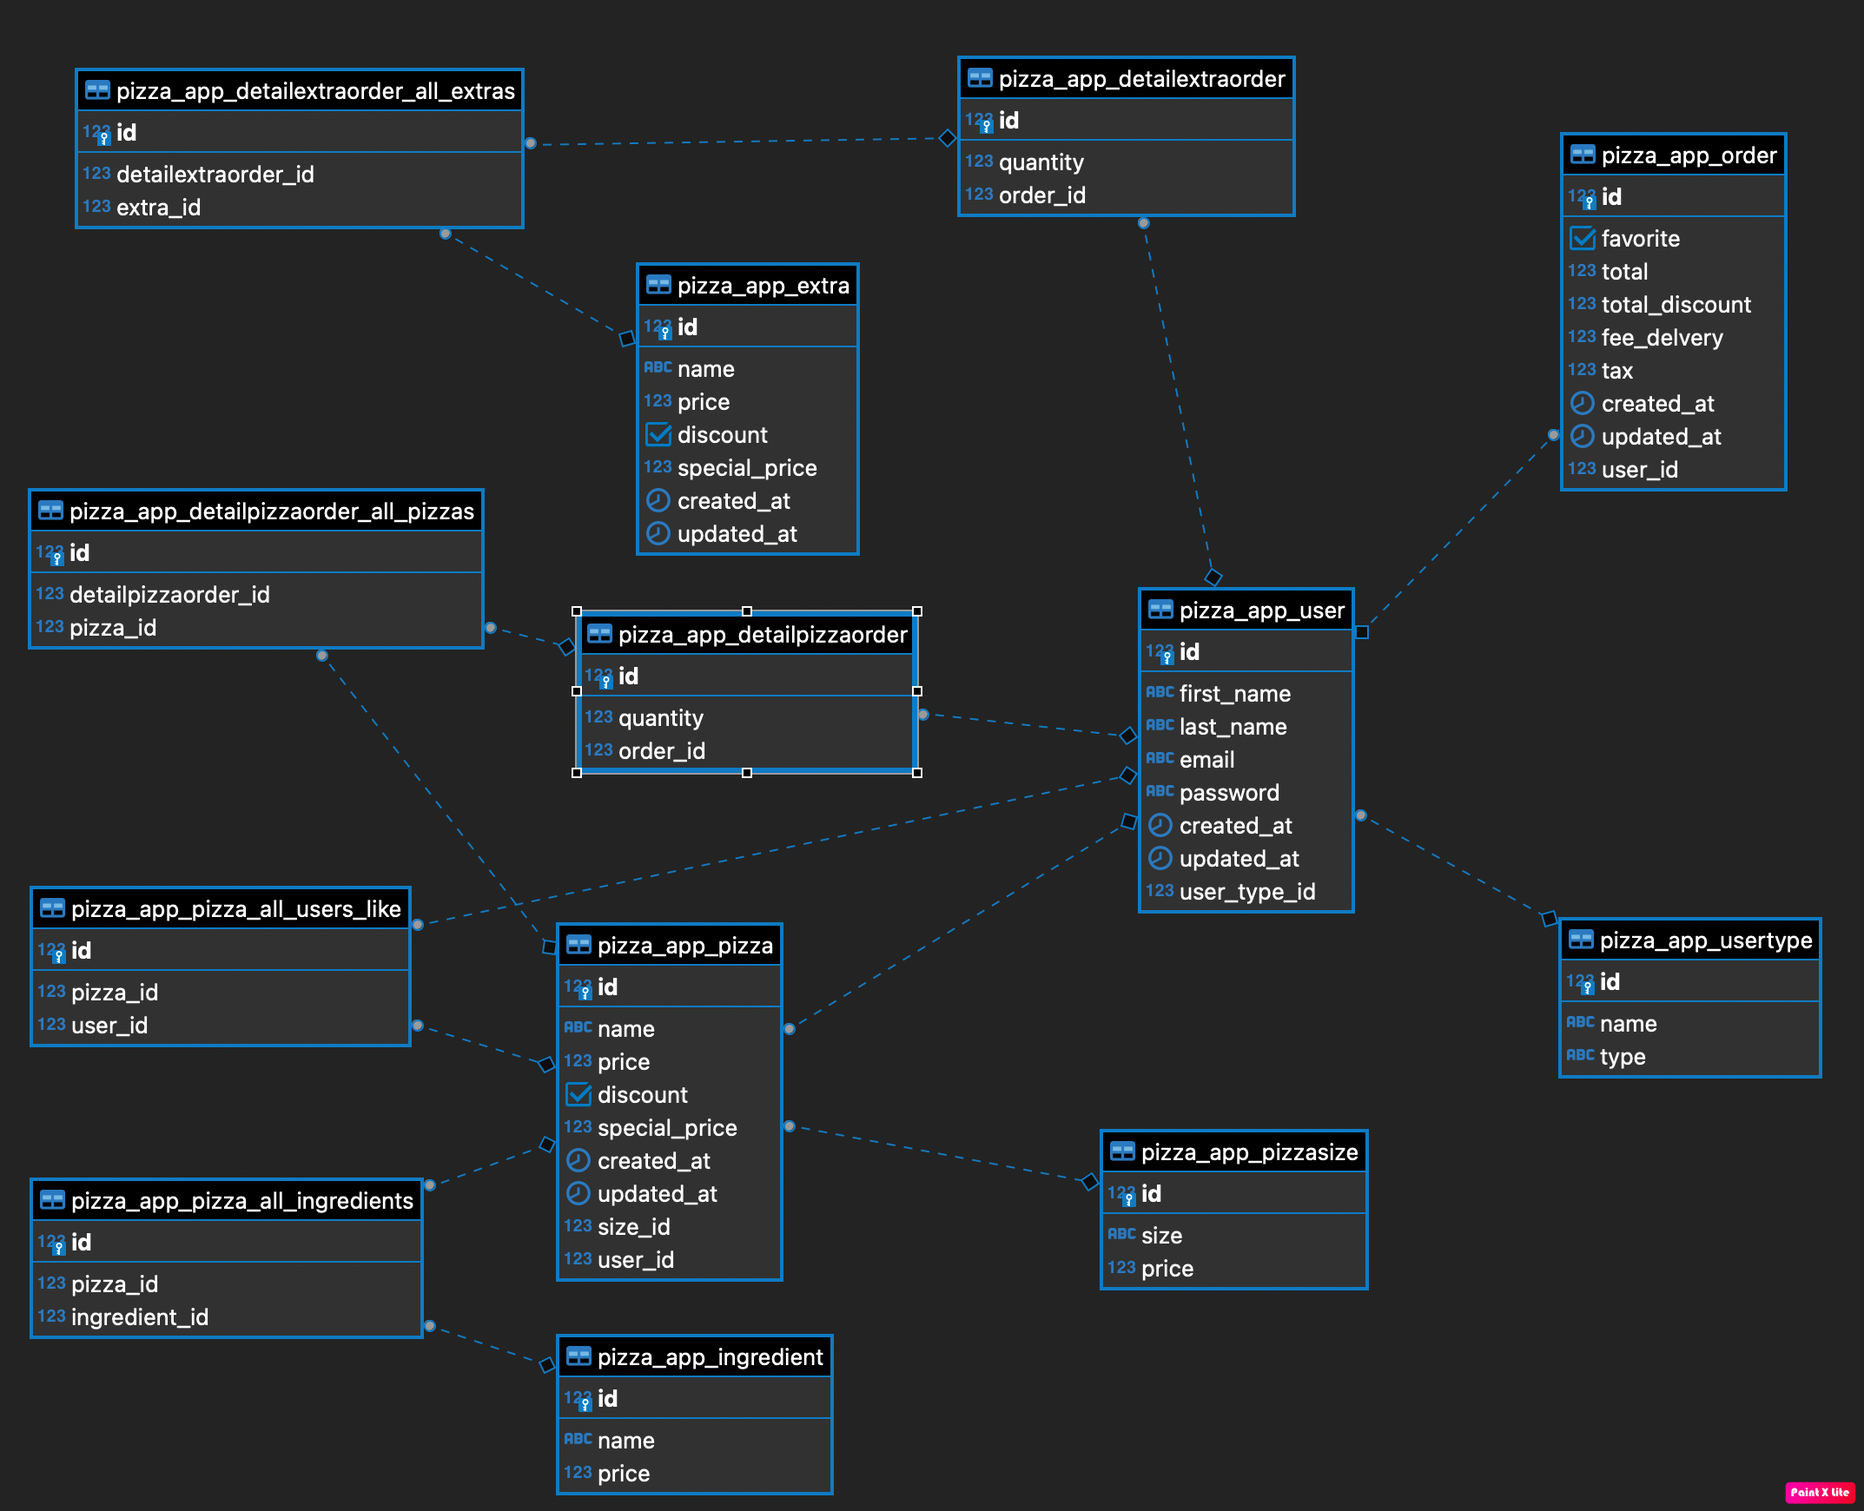
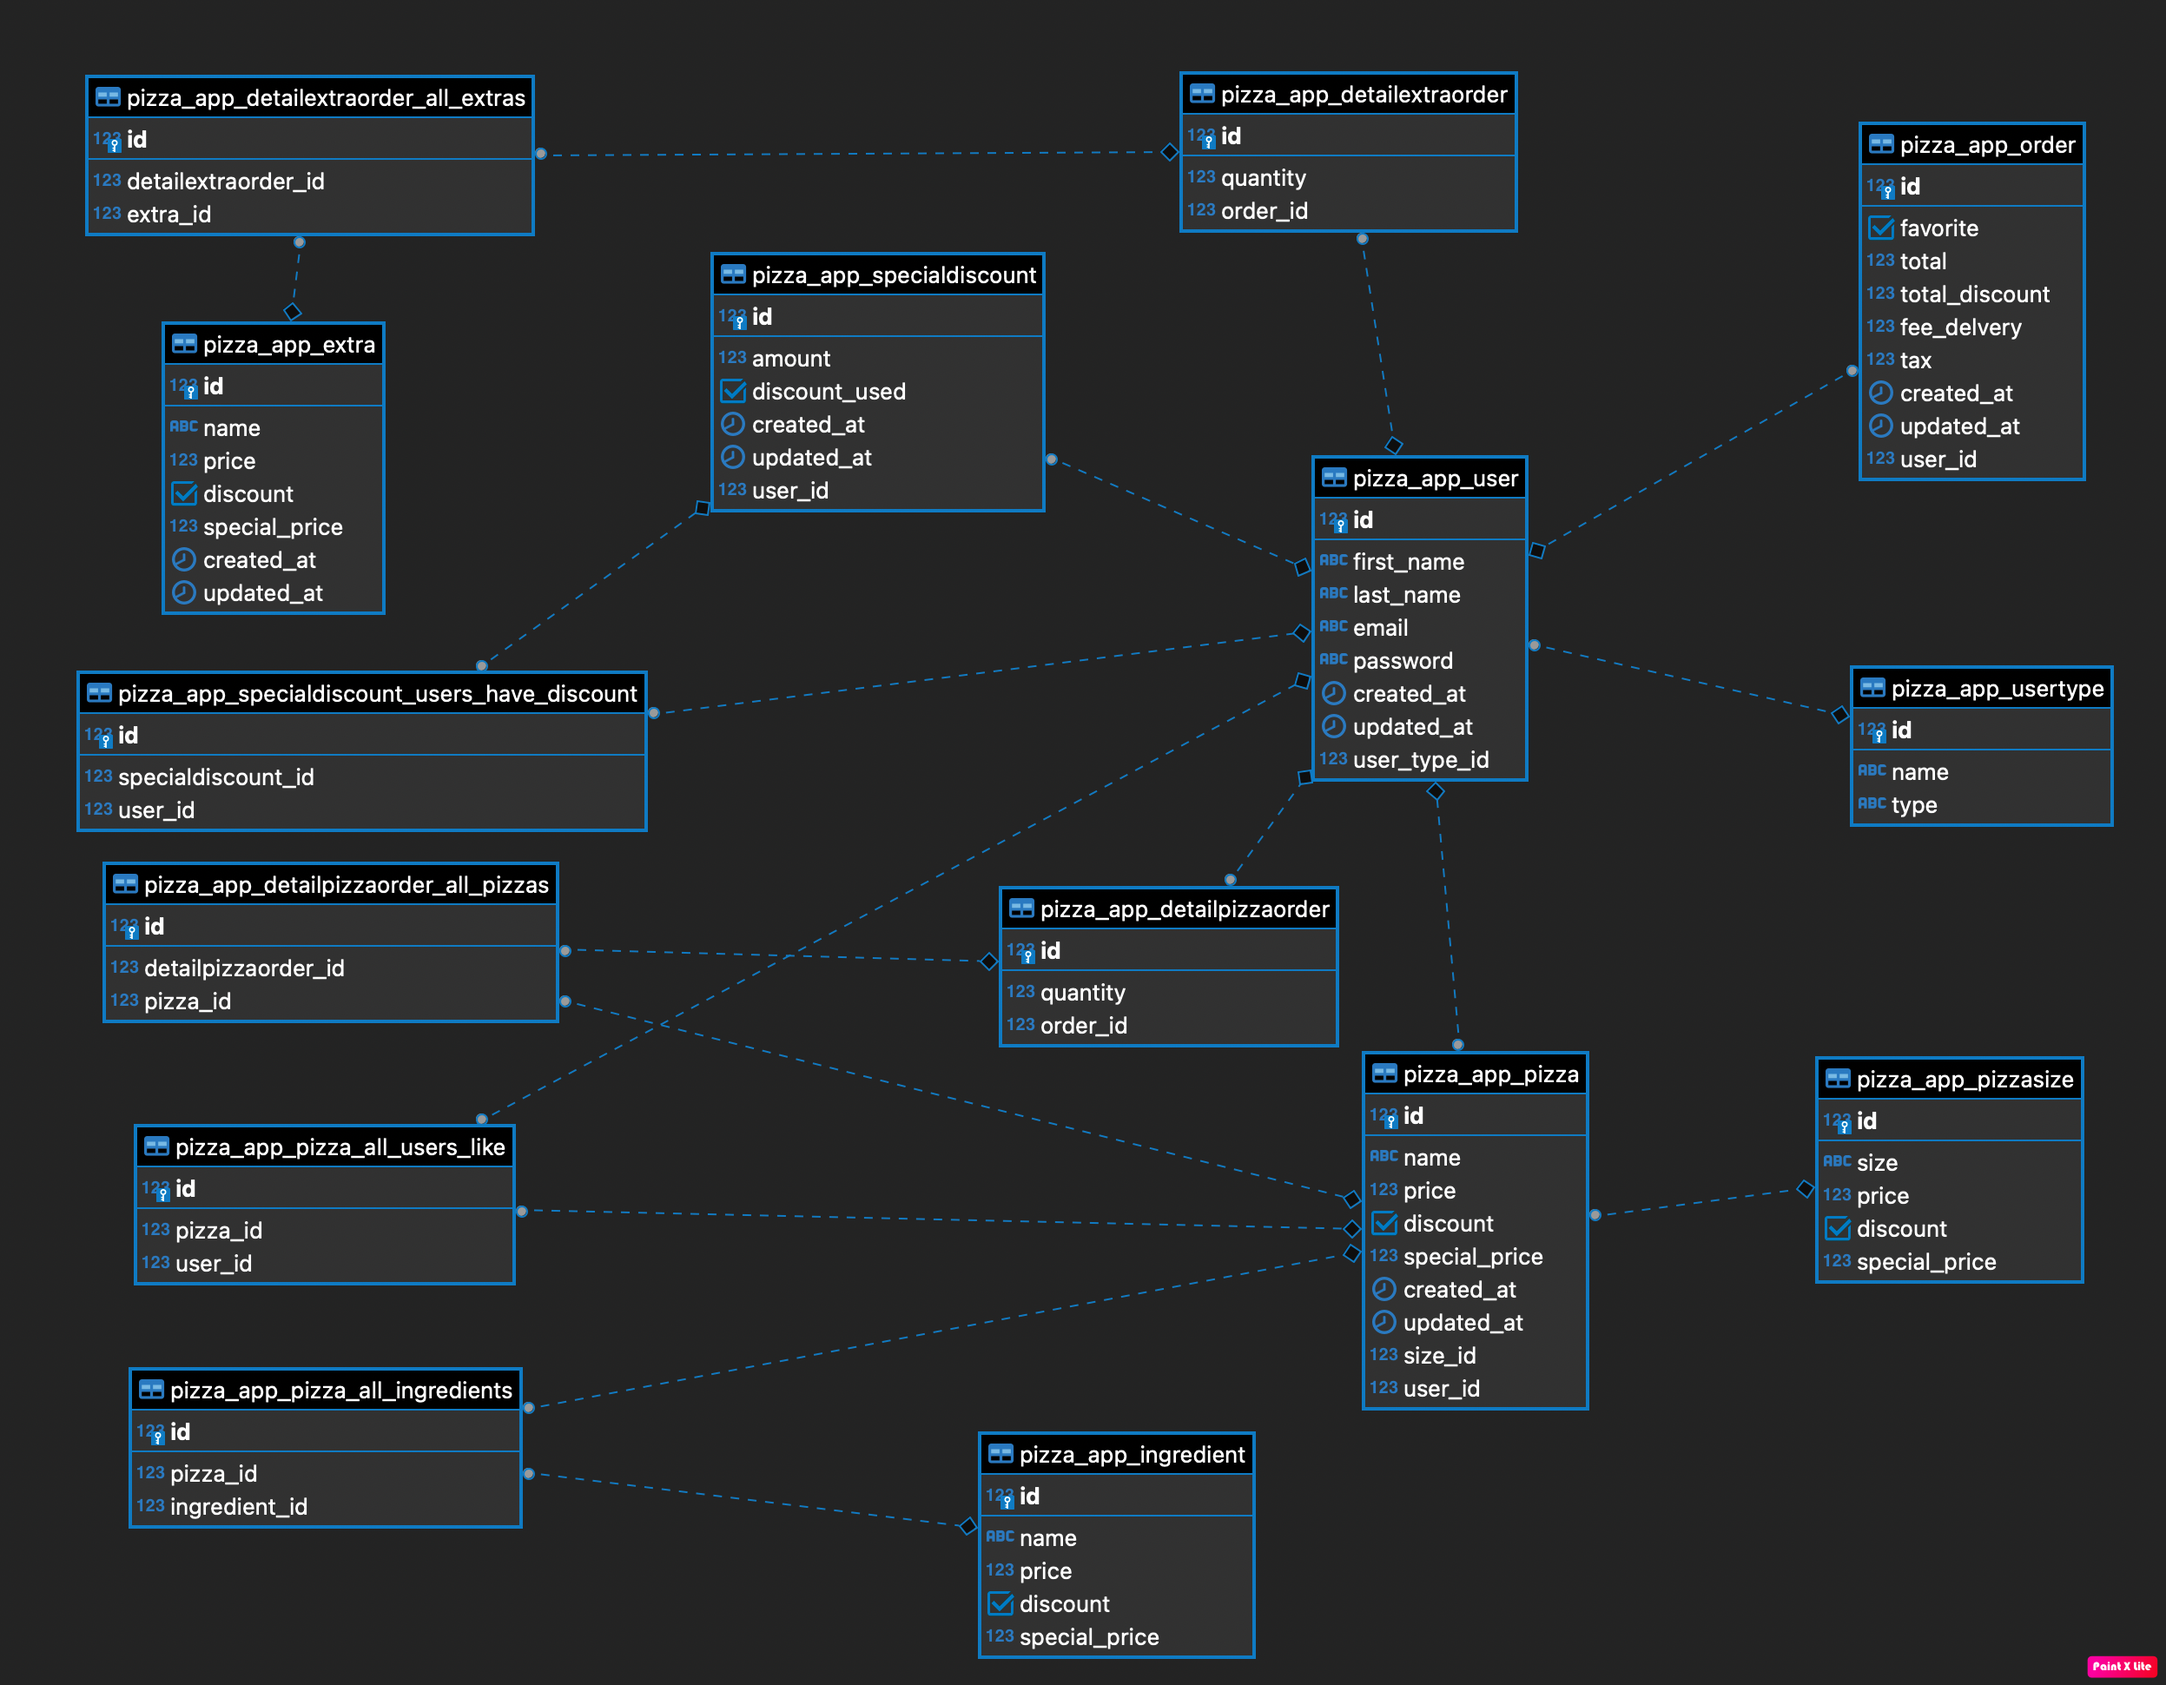
actualizaciones del modelo

diff --git a/pizza_app/migrations/0004_auto_20210610_0105.py b/pizza_app/migrations/0004_auto_20210610_0105.py
@@ -1,0 +1,48 @@
+# Generated by Django 3.2.3 on 2021-06-10 01:05
+
+from django.db import migrations, models
+import django.db.models.deletion
+
+
+class Migration(migrations.Migration):
+
+    dependencies = [
+        ('pizza_app', '0003_alter_detailextraorder_all_extras'),
+    ]
+
+    operations = [
+        migrations.AddField(
+            model_name='ingredient',
+            name='discount',
+            field=models.BooleanField(default=False),
+        ),
+        migrations.AddField(
+            model_name='ingredient',
+            name='special_price',
+            field=models.IntegerField(default=0),
+            preserve_default=False,
+        ),
+        migrations.AddField(
+            model_name='pizzasize',
+            name='discount',
+            field=models.BooleanField(default=False),
+        ),
+        migrations.AddField(
+            model_name='pizzasize',
+            name='special_price',
+            field=models.IntegerField(default=0),
+            preserve_default=False,
+        ),
+        migrations.CreateModel(
+            name='SpecialDiscount',
+            fields=[
+                ('id', models.BigAutoField(auto_created=True, primary_key=True, serialize=False, verbose_name='ID')),
+                ('amount', models.IntegerField()),
+                ('discount_used', models.BooleanField(default=False)),
+                ('created_at', models.DateTimeField(auto_now_add=True)),
+                ('updated_at', models.DateTimeField(auto_now=True)),
+                ('user', models.ForeignKey(on_delete=django.db.models.deletion.CASCADE, related_name='discounts_created', to='pizza_app.user')),
+                ('users_have_discount', models.ManyToManyField(related_name='my_discounts', to='pizza_app.User')),
+            ],
+        ),
+    ]

diff --git a/pizza_app/models.py b/pizza_app/models.py
@@ -82,10 +82,14 @@ class User(models.Model):
 class Ingredient(models.Model):
     name            = models.CharField(max_length=45, validators=[ValidarLongitudMinima])
     price           = models.IntegerField()
+    discount        = models.BooleanField(default=False)
+    special_price   = models.IntegerField()
 
 class PizzaSize(models.Model):
     size            = models.CharField(max_length=45, validators=[ValidarLongitudMinima])
     price           = models.IntegerField()
+    discount        = models.BooleanField(default=False)
+    special_price   = models.IntegerField()
 
 class Pizza(models.Model):
     name            = models.CharField(max_length=45, validators=[ValidarLongitudMinima])
@@ -126,3 +130,11 @@ class DetailExtraOrder(models.Model):
     all_extras      = models.ManyToManyField(Extra, related_name='all_extras_in_orders')
     quantity        = models.IntegerField()
     order           = models.ForeignKey(User, on_delete=models.CASCADE, related_name='all_extras_order')
+
+class SpecialDiscount(models.Model):
+    user            = models.ForeignKey(User, on_delete=models.CASCADE, related_name='discounts_created')
+    users_have_discount  = models.ManyToManyField(User, related_name='my_discounts')
+    amount          = models.IntegerField()
+    discount_used   = models.BooleanField(default=False)
+    created_at      = models.DateTimeField(auto_now_add=True)
+    updated_at      = models.DateTimeField(auto_now=True)
